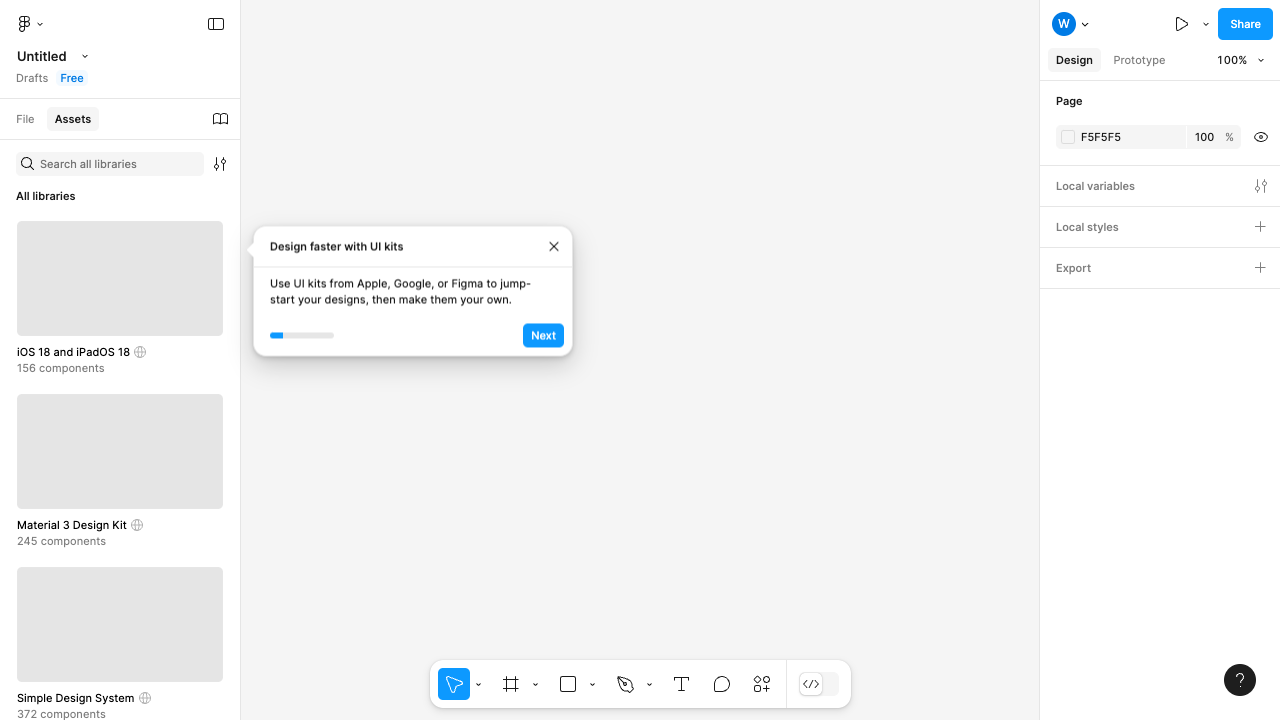
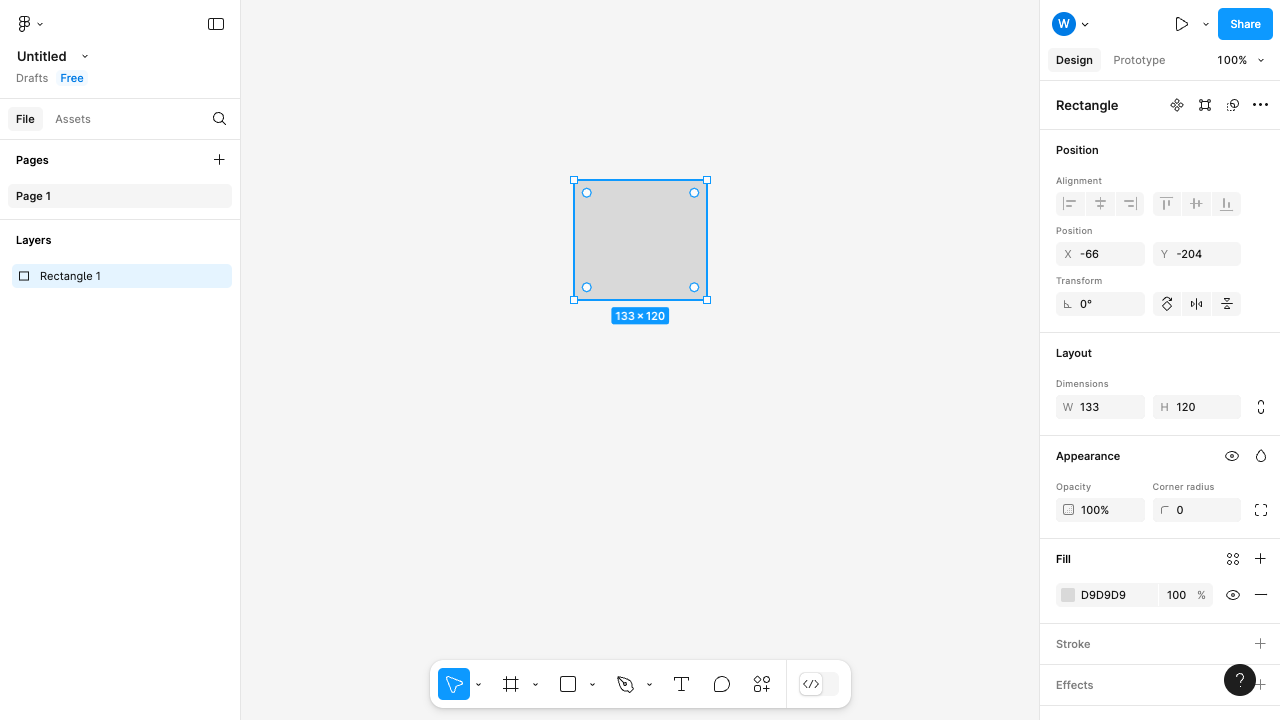
Inital

diff --git a/tests/figma.spec.js b/tests/figma.spec.js
@@ -1,46 +1,66 @@
 // @ts-check
-const {test, expect} = require('@playwright/test');
+const {test} = require('@playwright/test');
+require('dotenv').config();
 
-// const drag_and_drop = async(page,locator, offsetY,cnt) =>{
+let draw_rect = async (page, box)=>{
+    console.log(box.x, box.y, box.width, box.height)
+    let xStart = box.x + box.width / 3;
+    let yStart = box.y + box.height / 2;
+    let xFinish = box.x + box.width / 2;
+    let yFinish = box.y + box.height / 3;
+    mouse_move_down_up(page, xStart, yStart, xFinish, yFinish)
+    return {xStart,yStart,xFinish,yFinish}
+}
 
-//     const box = await locator.boundignBox();
-//     console.log(box);
+let mouse_move_down_up = async (page, xStart, yStart, xFinish, yFinish) =>{
+    
+    // ** can also use page.locator('"canvas").hover(x:60,y:70) **
+    await page.mouse.move(xStart, yStart);
+    await page.mouse.down();    
+    await page.mouse.move(xFinish, yFinish);
+    await page.mouse.up();
+}
 
-
-//     await page.mouse.move(box.x + box.width / 2,box.y + box.height / 2);
-//     await page.mouse.down();
-// 	for(let i=0;i<cnt;i++){
-// 		await page.mouse.move(box.x + box.width / 2,box.y + box.height / 2+offsetY*(i+1));
-// 		console.log(box.x + box.width / 2, box.y + box.height / 2+offsetY*(i+1));
-// 		page.waitForTimeout(100);
-// 	}
-//     await page.mouse.up();
-
-// }
-
-test('Figma log in and new File', async ({ page, context }) => {
-
-
+test('Figma log --> New design File --> Create Rectangle --> Move triangle', async ({ page, context }) => {
+    // ** Env variables 
+    if (!process.env.FIGMA_EMAIL || !process.env.FIGMA_PASS) {
+        throw new Error('FIGMA_EMAIL and FIGMA_PASS environment variables must be set');
+    }
+    //Login Figma 
     await page.goto('https://www.figma.com/files/team/', { timeout: 45000 });
-    await page.getByPlaceholder("Email").fill('wicem34526@kvegg.com')
-    await page.getByPlaceholder("Password").fill('dummy12qw@pass123',{timeout:1000})
+    await page.getByPlaceholder("Email").fill(process.env.FIGMA_EMAIL);
+    await page.getByPlaceholder("Password").fill(process.env.FIGMA_PASS,{timeout:1000})
     await page.getByText('Log in').click({timeout:10000})
-
+    // Create new File 
     await page.getByText("New design file").click({timeout:10000})
-
-    await page.waitForTimeout(20000);
-    let elementHandle = await page.locator("#canvas");
-    let rect = await elementHandle.boundingBox();
-
+    // Select rectangle tool 
     await page.locator('//div[@data-tooltip="Rectangle"]').click()
+
+    // Get the canvas bounding box
+    await page.waitForSelector('canvas', { state: 'visible', timeout: 30000 });
+    let box = await page.locator('canvas').boundingBox();
+    if (!box) {
+        throw new Error('Could not get canvas bounding box');
+    }
+
+    // draw rectangle 
+    let rect1 = await draw_rect(page, box )
+    await page.waitForTimeout(10000)
     
-    await page.mouse.down();
-    
-    
+    // Move that rectangle rect1
+    let {xStart, yStart, xFinish, yFinish} = rect1
+    await page.mouse.move((xStart+xFinish)/2, (yStart+yFinish)/2)
+    await page.mouse.down()
+    await page.mouse.move(xFinish,yFinish)
+    await page.mouse.up()
     await page.screenshot({ path: 'screenshot.png' });
 
+    // Trying to increase width of the rectangle drawn 
+    // await page.mouse.down()
+    // let elemX = page.locator('//input[@data-testid="transform-width"]')
+    // elemX.evaluate(elemX => elemX.setAttribute('value','133'))
+    // let elemY = page.locator('//input[@data-testid="transform-height"]')
+    // elemY.evaluate(elemY => elemY.setAttribute('value','233'))
+
+    // await page.screenshot({ path: 'screenshot.png' });
 })
-
-
-
-

diff --git a/completed/old/example.spec.js b/completed/old/example.spec.js
@@ -3,32 +3,18 @@ const { test, expect } = require('@playwright/test');
 
 test('Add Mouse to Cart on Amazon', async ({ page ,context}) => {
   await page.goto('https://www.amazon.in/', { timeout: 5000 });
-  // let title = "Online Shopping site in India: Shop Online for Mobiles, Books, Watches, Shoes and More - Amazon.in"
-  //await expect(page).toHaveTitle(title);
   await page.getByPlaceholder("Search Amazon.in").fill("Mouse", { timeout: 5000 });
-  
   await page.locator('[id="nav-search-submit-button"]').click({ timeout: 5000 });
   await expect(page).toHaveTitle("Amazon.in : Mouse", { timeout: 5000 });
-  
-
   await page.locator('//span[contains(text(), "Zebronics")]').first().click();
   const [newPage] = await Promise.all([
     context.waitForEvent('page'), 
     await page.getByText('DELL').first().click()
   ])
-
   await newPage.waitForLoadState();
   await newPage.getByText("Add to cart").first().click()
   await page.waitForTimeout(3000);
   await newPage.screenshot({ path: 'screenshot.png' });
-  // Sign in  
-  // await page.getByText("Hello, sign in").click();
-  // await page.locator("[name='email']").fill("patelsahil.alphabin@gmail.com")
-  // await page.locator("[name='']").fill("sahip12!@")
-
-
-  //await page.getByRole('dialog', {name ,"signin"})
-
 });
 
 

diff --git a/completed/old/auth.setup.js b/completed/old/auth.setup.js
@@ -4,7 +4,7 @@ const { test: setup } = require('@playwright/test');
 setup('authenticate', async ({ page }) => {
   await page.goto('https://www.figma.com/login', { timeout: 45000 });
   await page.getByPlaceholder("Email").fill('wicem34526@kvegg.com')
-  await page.getByPlaceholder("Password").fill('dummy12qw@pass123',{timeout:10000})
+  await page.getByPlaceholder("Password").fill('dummy12qw@pass123',{timeout:1000})
 
 
   await page.context().storageState({ path: 'playwright/.auth/user.json' });

diff --git a/playwright.config.js b/playwright.config.js
@@ -1,5 +1,6 @@
 // @ts-check
 const { defineConfig, devices } = require('@playwright/test');
+require('dotenv').config();
 
 /**
  * Read environment variables from file.

diff --git a/readme.md b/readme.md
@@ -1,0 +1,7 @@
+Automated Tests --
+
+1. Add a product to Amazon cart (example.spe.js)
+
+2. Add a product to Flipkart cart (example.spe.js)
+
+3. Login to Figma --> Create a new design --> Add a rectangle to screen (figma.spec.js)
